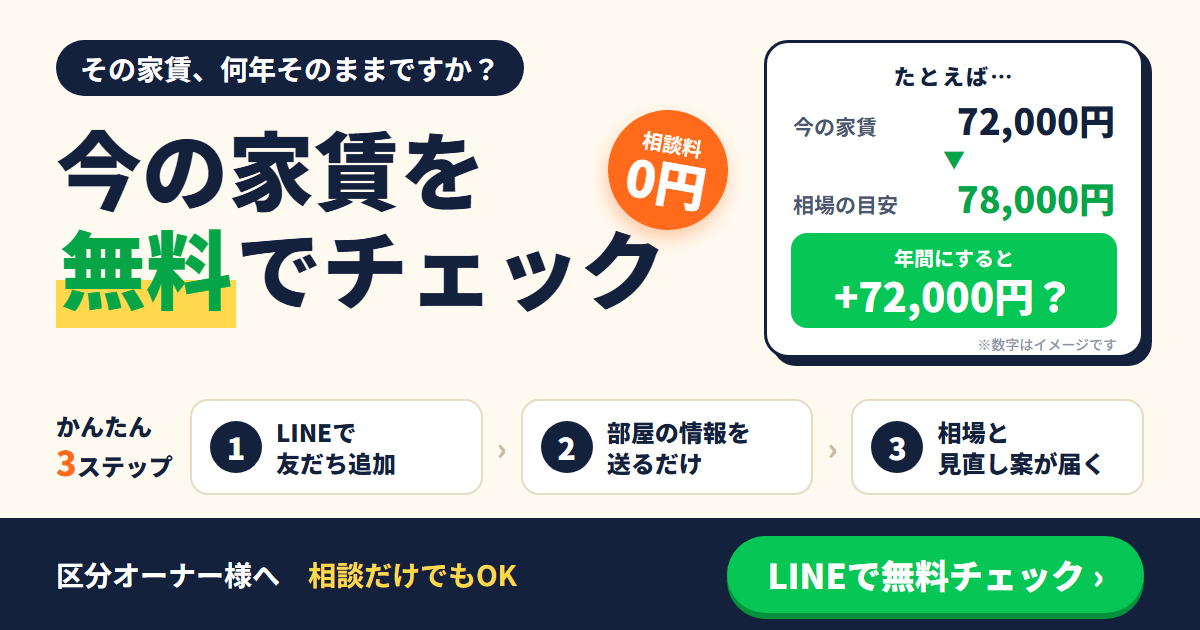
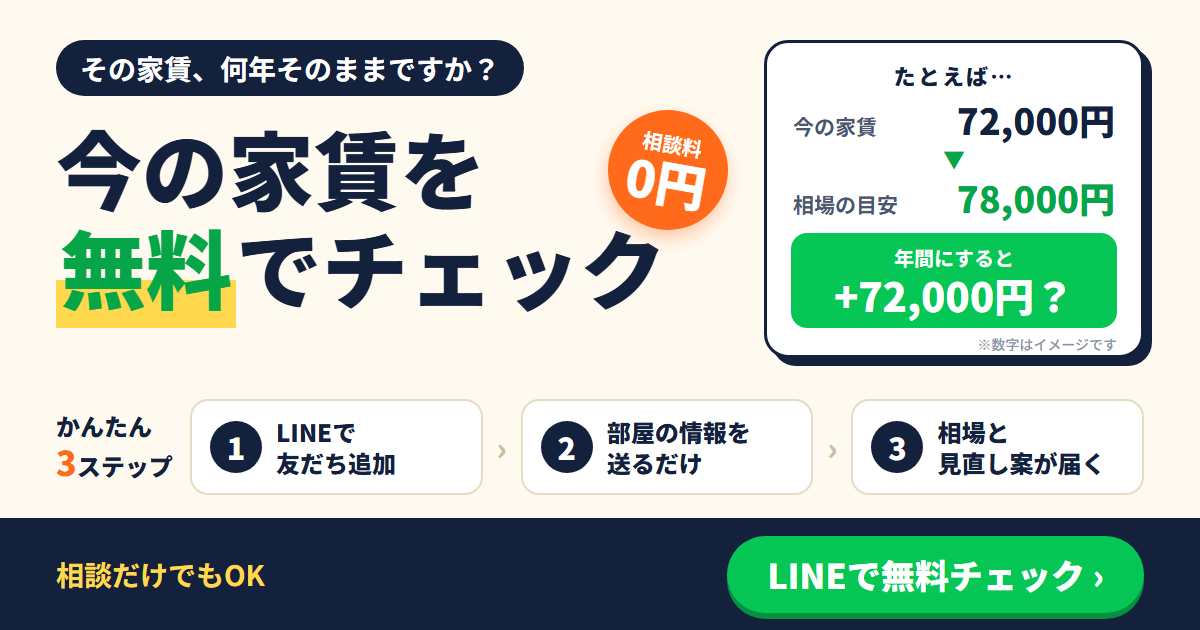
白背景・ゴールドのボタン・東京と福岡の透かしに変更

Changed region(s): [[0.0308, 0.8746, 0.4317, 0.9349]]

diff --git a/index.html b/index.html
@@ -3,9 +3,9 @@
 <head>
   <meta charset="utf-8">
   <meta name="viewport" content="width=device-width, initial-scale=1">
-  <title>今の家賃を無料でチェック｜区分マンションオーナー様へ</title>
+  <title>今の家賃を無料でチェック</title>
   <meta name="description" content="物価は上がっているのに、家賃は昔のまま？区分マンションの今の家賃が相場に合っているか、LINEで無料チェックできます。">
-  <meta property="og:title" content="今の家賃を無料でチェック｜区分マンションオーナー様へ">
+  <meta property="og:title" content="今の家賃を無料でチェック">
   <meta property="og:description" content="物価は上がっているのに、家賃は昔のまま？区分マンションの今の家賃が相場に合っているか、LINEで無料チェックできます。">
   <meta property="og:image" content="https://akihide19841006m.github.io/rent-check/ogp.png">
   <meta property="og:type" content="website">
@@ -21,14 +21,14 @@
       --navy: #14213d;
       --navy-light: #223763;
       --navy-soft: #eaf0f8;
-      --cream: #fffaf0;
+      --cream: #faf8f3;
       --paper: #ffffff;
       --ink: #263249;
       --muted: #687286;
-      --gold: #c9a04a;
+      --gold: #b08a3e;
       --gold-soft: #f4ead0;
-      --line-green: #06c755;
-      --line-green-dark: #049541;
+      --line-gold: #b8913a;
+      --line-gold-dark: #8c6a24;
       --line: #e5e0d7;
       --sim-navy: #1f2a44;
       --sim-navy-soft: #eaf0f8;
@@ -48,7 +48,7 @@
       min-width: 320px;
       overflow-x: hidden;
       color: var(--ink);
-      background: #f2eee6;
+      background: #ffffff;
       font-family: "Noto Sans JP", "Hiragino Kaku Gothic ProN", "Yu Gothic", sans-serif;
       line-height: 1.8;
       -webkit-font-smoothing: antialiased;
@@ -111,11 +111,9 @@
       min-height: 610px;
       padding: 70px 30px 57px;
       overflow: hidden;
-      color: #fff;
-      background:
-        radial-gradient(circle at 83% 15%, rgba(201, 160, 74, .28) 0 2px, transparent 2.5px),
-        radial-gradient(circle at 76% 20%, rgba(255, 255, 255, .28) 0 1px, transparent 1.5px),
-        linear-gradient(145deg, #0d1830 0%, #14213d 47%, #263f70 100%);
+      color: var(--navy);
+      background: #fff;
+      border-bottom: 1px solid #eee8dc;
     }
 
     .hero::before {
@@ -143,6 +141,27 @@
       content: "";
     }
 
+    .hero::before,
+    .hero::after { display: none; }
+
+    .cityscape {
+      position: absolute;
+      z-index: 0;
+      right: 0;
+      bottom: 0;
+      left: 0;
+      width: 100%;
+      height: 240px;
+      color: var(--navy);
+      opacity: .09;
+      pointer-events: none;
+    }
+
+    .cityscape .tower-red { fill: #b34d4d; }
+    .cityscape .tower-white { fill: #fff; }
+    .cityscape .tower-mirror { fill: #37627d; }
+    .cityscape .water-line { fill: none; stroke: currentColor; stroke-width: 3; }
+
     .hero-content { position: relative; z-index: 1; }
 
     .eyebrow {
@@ -165,24 +184,25 @@
 
     .hero h1 {
       margin-bottom: 21px;
-      color: #fff;
+      color: var(--navy);
       font-family: "Noto Serif JP", "Yu Mincho", serif;
-      font-size: clamp(25px, 7.2vw, 48px);
+      font-size: clamp(24px, 6.6vw, 44px);
       font-weight: 900;
-      line-height: 1.4;
+      line-height: 1.45;
       letter-spacing: .01em;
+      white-space: nowrap;
     }
 
     .hero h1 em {
-      color: #f1cb72;
+      color: var(--gold);
       font-style: normal;
-      text-shadow: 0 2px 16px rgba(201, 160, 74, .25);
+      text-shadow: 0 2px 12px rgba(176, 138, 62, .16);
     }
 
     .hero-lead {
       max-width: 31em;
       margin-bottom: 31px;
-      color: #e4ebf7;
+      color: #4f5c70;
       font-size: 15px;
       font-weight: 500;
       line-height: 1.95;
@@ -198,25 +218,26 @@
       border: 0;
       border-radius: 15px;
       color: #fff;
-      background: var(--line-green);
-      box-shadow: 0 7px 0 var(--line-green-dark), 0 13px 22px rgba(0, 0, 0, .18);
+      background: linear-gradient(180deg, #d9b45a 0%, var(--line-gold) 100%);
+      box-shadow: 0 7px 0 var(--line-gold-dark), 0 13px 22px rgba(91, 68, 24, .20);
       cursor: pointer;
       font-size: 16px;
       font-weight: 800;
       line-height: 1.4;
       text-align: center;
       text-decoration: none;
-      transition: transform .18s ease, box-shadow .18s ease, background-color .18s ease;
+      text-shadow: 0 1px 1px rgba(77, 55, 15, .35);
+      transition: transform .18s ease, box-shadow .18s ease, background .18s ease;
     }
 
     .line-button:hover {
-      background: #05b94f;
-      box-shadow: 0 5px 0 var(--line-green-dark), 0 10px 18px rgba(0, 0, 0, .18);
+      background: linear-gradient(180deg, #e2bf6b 0%, #c69b40 100%);
+      box-shadow: 0 5px 0 var(--line-gold-dark), 0 10px 18px rgba(91, 68, 24, .18);
       transform: translateY(2px);
     }
 
     .line-button:focus-visible {
-      outline: 3px solid #fff;
+      outline: 3px solid var(--navy);
       outline-offset: 3px;
     }
 
@@ -224,7 +245,7 @@
 
     .button-note {
       margin: 16px 0 0;
-      color: #d9e3f4;
+      color: #6c7686;
       font-size: 11px;
       font-weight: 500;
       line-height: 1.7;
@@ -712,16 +733,27 @@
     .consultation-list li { border-color: #e1e6ec; background: #f9fbfd; }
 
     .final-cta {
+      position: relative;
       padding: 68px 30px 64px;
-      color: #fff;
-      background: linear-gradient(150deg, #0d1830, #14213d 56%, #263f70);
+      overflow: hidden;
+      color: var(--navy);
+      background: #fff;
+      border-top: 1px solid #eee8dc;
+      border-bottom: 1px solid #eee8dc;
     }
 
-    .final-cta .section-kicker { color: #f1cb72; }
+    .final-cta > :not(.cityscape) { position: relative; z-index: 1; }
+
+    .final-cta .cityscape {
+      bottom: -6px;
+      height: 206px;
+      color: var(--gold);
+      opacity: .08;
+    }
 
     .final-cta h2 {
       margin-bottom: 20px;
-      color: #fff;
+      color: var(--navy);
       font-family: "Noto Serif JP", "Yu Mincho", serif;
       font-size: clamp(30px, 8vw, 43px);
       font-weight: 900;
@@ -729,11 +761,11 @@
       letter-spacing: .015em;
     }
 
-    .final-cta h2 span { color: #f1cb72; }
+    .final-cta h2 span { color: var(--gold); }
 
     .final-cta > p:not(.section-kicker):not(.button-note) {
       margin-bottom: 28px;
-      color: #e2eafa;
+      color: #4f5c70;
       font-size: 15px;
       font-weight: 500;
       line-height: 1.95;
@@ -741,7 +773,7 @@
 
     .step-heading {
       margin: 0 0 13px;
-      color: #fff;
+      color: var(--navy);
       font-size: 14px;
       font-weight: 800;
       letter-spacing: .08em;
@@ -760,10 +792,10 @@
       position: relative;
       min-height: 48px;
       padding: 12px 12px 12px 46px;
-      border: 1px solid rgba(255, 255, 255, .22);
+      border: 1px solid #e7dfcf;
       border-radius: 10px;
-      color: #edf3ff;
-      background: rgba(255, 255, 255, .08);
+      color: #39465c;
+      background: rgba(250, 248, 243, .88);
       font-size: 13px;
       font-weight: 600;
       line-height: 1.7;
@@ -774,7 +806,7 @@
       position: absolute;
       top: 12px;
       left: 14px;
-      color: #f1cb72;
+      color: var(--gold);
       content: counter(cta-steps, decimal-leading-zero);
       font-family: "Noto Serif JP", serif;
       font-size: 15px;
@@ -806,18 +838,20 @@
       padding: 10px 16px;
       border-radius: 13px;
       color: #fff;
-      background: var(--line-green);
-      box-shadow: 0 6px 0 var(--line-green-dark), 0 11px 25px rgba(0, 0, 0, .25);
+      background: linear-gradient(180deg, #d9b45a 0%, var(--line-gold) 100%);
+      box-shadow: 0 6px 0 var(--line-gold-dark), 0 11px 25px rgba(91, 68, 24, .25);
       font-size: 14px;
       font-weight: 800;
       line-height: 1.4;
       text-align: center;
       text-decoration: none;
+      text-shadow: 0 1px 1px rgba(77, 55, 15, .35);
       transform: translateY(95px);
       transition: transform .25s ease;
     }
 
     .mobile-line-cta.is-visible { transform: translateY(0); }
+    .mobile-line-cta:hover { background: linear-gradient(180deg, #e2bf6b 0%, #c69b40 100%); }
 
     @media (min-width: 721px) {
       body { padding: 28px 0; }
@@ -832,7 +866,7 @@
     @media (max-width: 410px) {
       .section { padding: 58px 20px; }
       .hero { min-height: 576px; padding: 59px 20px 48px; }
-      .hero h1 { font-size: 7.2vw; }
+      .hero h1 { font-size: 6.4vw; }
       .message-band, .final-cta { padding-right: 20px; padding-left: 20px; }
     }
 
@@ -858,12 +892,37 @@
   <div class="page-shell">
     <header class="hero" id="hero">
       <div class="hero-content">
-        <p class="eyebrow">区分マンションオーナー様へ</p>
-        <h1>物価は上がっているのに、<br>家賃は<em>昔のまま</em>に<br>なっていませんか？</h1>
+        <h1>インフレなのに、<br>家賃は<em>昔のまま</em>に<br>なっていませんか？</h1>
         <p class="hero-lead">修繕費も管理費も、ここ数年で上がりました。あなたのお部屋の家賃は、今の相場に合っていますか？</p>
         <a class="line-button" data-line-link aria-label="LINEで今の家賃を無料でチェックする">今の家賃を無料でチェックする</a>
         <p class="button-note">LINEで部屋の情報を送るだけ</p>
       </div>
+      <svg class="cityscape" viewBox="0 0 1000 230" preserveAspectRatio="none" aria-hidden="true" focusable="false">
+        <g fill="currentColor">
+          <rect x="0" y="156" width="88" height="54" rx="2" />
+          <rect x="17" y="118" width="58" height="92" rx="2" />
+          <rect x="178" y="142" width="51" height="68" rx="2" />
+          <rect x="192" y="93" width="32" height="117" rx="2" />
+          <rect x="292" y="133" width="44" height="77" rx="2" />
+          <rect x="316" y="102" width="48" height="108" rx="2" />
+          <rect x="370" y="148" width="58" height="62" rx="2" />
+          <path class="tower-red" d="M126 20 135 84h10l-4 12 26 114H91l26-114-4-12h10z" />
+          <path class="tower-white" d="M111 107h40l4 13h-48zm-10 42h60l4 13H97z" />
+          <path d="M256 20 270 210h-28z" />
+          <rect x="232" y="80" width="48" height="10" rx="3" />
+          <rect x="228" y="119" width="56" height="11" rx="3" />
+          <rect x="530" y="153" width="49" height="57" rx="2" />
+          <rect x="560" y="121" width="58" height="89" rx="2" />
+          <rect x="700" y="154" width="34" height="56" rx="2" />
+          <rect x="905" y="132" width="53" height="78" rx="2" />
+          <rect x="951" y="161" width="49" height="49" rx="2" />
+          <path class="tower-mirror" d="M652 24 687 210H617z" />
+          <path d="M652 24v186m0-186 35 186m-35-186-35 186" fill="none" stroke="#fff" stroke-width="4" />
+          <path d="M742 210v-18c12-45 139-45 154 0v18z" />
+          <path d="M752 190c27-25 111-25 134 0" fill="none" stroke="#fff" stroke-width="4" />
+        </g>
+        <path class="water-line" d="M514 214h108m18 0h78m16 0h154m17 0h88M540 224h62m26 0h96m24 0h134m19 0h79" />
+      </svg>
     </header>
 
     <main>
@@ -1025,7 +1084,6 @@
       </section>
 
       <section class="final-cta reveal" id="final-cta" aria-labelledby="final-cta-title">
-        <p class="section-kicker">区分マンションオーナー様へ</p>
         <h2 id="final-cta-title">今の家賃を<br><span>無料</span>でチェックする</h2>
         <p>家賃を上げるかどうかは、確認したあとに考えれば大丈夫です。</p>
         <h3 class="step-heading">かんたん3ステップ</h3>
@@ -1036,6 +1094,32 @@
         </ol>
         <a class="line-button line-button--large" data-line-link aria-label="LINEで無料チェックする">LINEで無料チェックする</a>
         <p class="button-note">相談だけでもOK。しつこい営業はしません。</p>
+        <svg class="cityscape" viewBox="0 0 1000 230" preserveAspectRatio="none" aria-hidden="true" focusable="false">
+          <g fill="currentColor">
+            <rect x="0" y="156" width="88" height="54" rx="2" />
+            <rect x="17" y="118" width="58" height="92" rx="2" />
+            <rect x="178" y="142" width="51" height="68" rx="2" />
+            <rect x="192" y="93" width="32" height="117" rx="2" />
+            <rect x="292" y="133" width="44" height="77" rx="2" />
+            <rect x="316" y="102" width="48" height="108" rx="2" />
+            <rect x="370" y="148" width="58" height="62" rx="2" />
+            <path class="tower-red" d="M126 20 135 84h10l-4 12 26 114H91l26-114-4-12h10z" />
+            <path class="tower-white" d="M111 107h40l4 13h-48zm-10 42h60l4 13H97z" />
+            <path d="M256 20 270 210h-28z" />
+            <rect x="232" y="80" width="48" height="10" rx="3" />
+            <rect x="228" y="119" width="56" height="11" rx="3" />
+            <rect x="530" y="153" width="49" height="57" rx="2" />
+            <rect x="560" y="121" width="58" height="89" rx="2" />
+            <rect x="700" y="154" width="34" height="56" rx="2" />
+            <rect x="905" y="132" width="53" height="78" rx="2" />
+            <rect x="951" y="161" width="49" height="49" rx="2" />
+            <path class="tower-mirror" d="M652 24 687 210H617z" />
+            <path d="M652 24v186m0-186 35 186m-35-186-35 186" fill="none" stroke="#fff" stroke-width="4" />
+            <path d="M742 210v-18c12-45 139-45 154 0v18z" />
+            <path d="M752 190c27-25 111-25 134 0" fill="none" stroke="#fff" stroke-width="4" />
+          </g>
+          <path class="water-line" d="M514 214h108m18 0h78m16 0h154m17 0h88M540 224h62m26 0h96m24 0h134m19 0h79" />
+        </svg>
       </section>
     </main>
 
